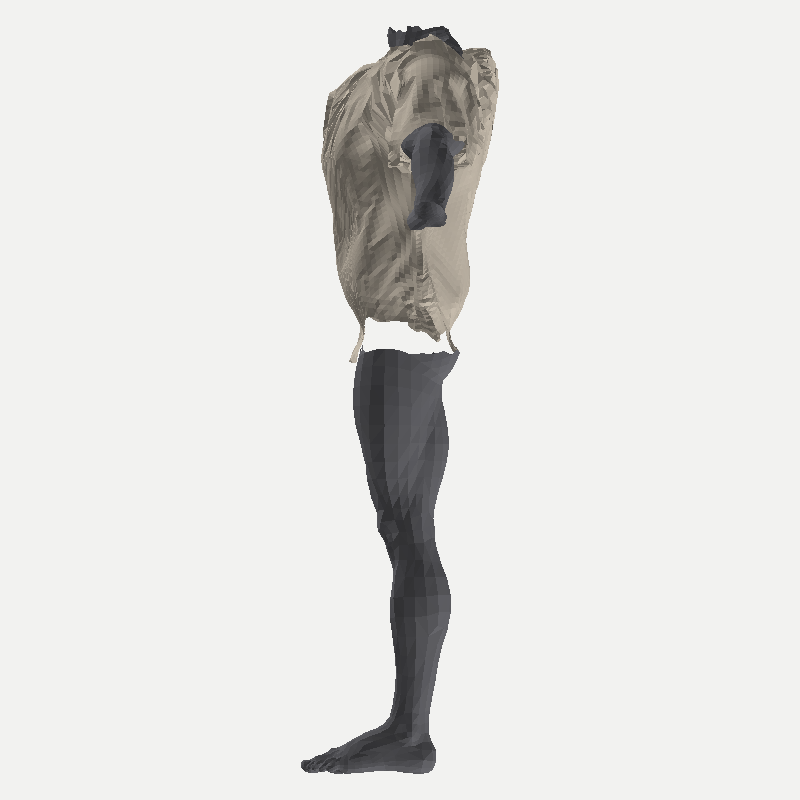
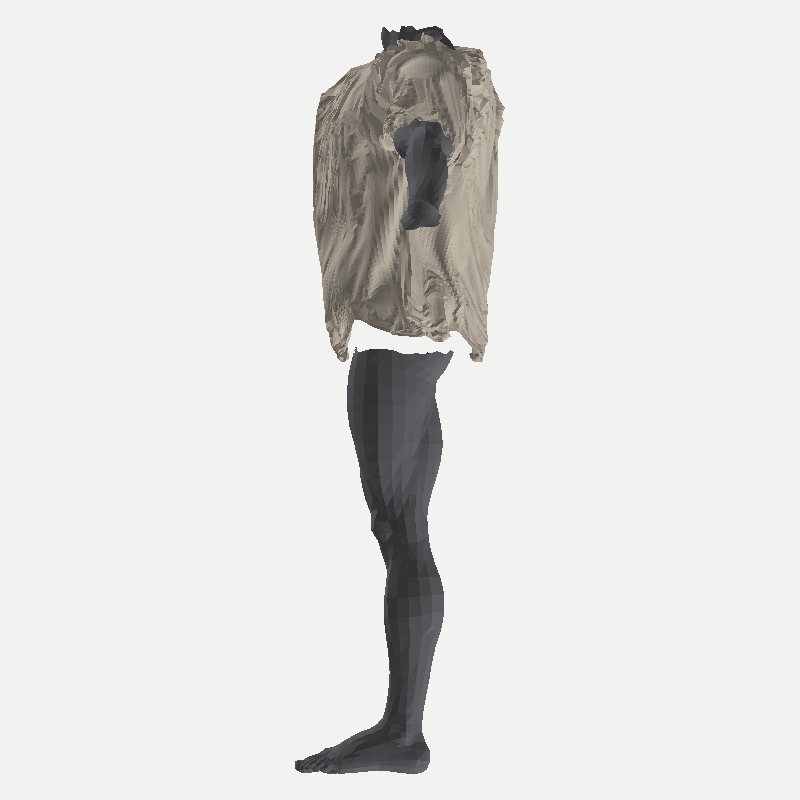
cloth sim: 0.8 cm mesh, every seam boundary vertex paired (both ways by arc fraction), weld before the push-out, three.js smooth-shaded previews (render.py); optional pattern rest shape (SIM_REST=1, off: pulls the yoke down while the torso cylinder is too narrow over the shoulders)
Tee: 33k triangles, seams closed (977/981 pairs), 0.4 % inside the body; still shoulder peaks under the pinned yoke and crumpling at the underarm.

Claude-Session: https://claude.ai/code/session_01T1FoqNFrnpWafKQH3B1Vx3

Changed region(s): [[0.375, 0.0312, 0.6562, 0.9688]]

diff --git a/tools/assets/cloth/sim.py b/tools/assets/cloth/sim.py
@@ -47,11 +47,11 @@ from place import sub, dot, cross, nrm, build_grid, bender, band_bender, Body, \
     edge_pts, sample_polyline, COLORS
 
 # ── tunables (metres, seconds; the reviewer's Marvelous/CLO recipe) ────────────────────────────
-STEP_SIM = float(os.environ.get('SIM_STEP', '1.2'))     # cm, warp grid of the high-poly cloth
+STEP_SIM = float(os.environ.get('SIM_STEP', '0.8'))     # cm, warp grid of the high-poly cloth
 MIN_CLEAR, PUSH_TO = 0.020, 0.032                       # push-out band, same as place.py
 FPS = 24
 FRAMES_SEW = int(os.environ.get('SIM_SEW', '55'))       # phase 1: seams close by sewing springs
-FRAMES_SETTLE = int(os.environ.get('SIM_SETTLE', '50')) # phase 2: gravity + self-collision settle
+FRAMES_SETTLE = int(os.environ.get('SIM_SETTLE', '60')) # phase 2: gravity + self-collision settle
 QUALITY = int(os.environ.get('SIM_QUALITY', '6'))       # CPU-bound default; SIM_QUALITY=8 on [gpu]
 FABRIC = dict(area_mass=0.15, tension=15.0, compression=15.0, shear=5.0, bending=0.5,
               self_dist=0.003, coll_thick=0.009, friction=5.0,
@@ -152,6 +152,34 @@ def smooth_push(V, F, skin, rounds=5, smooth=8, clear=0.012, push_to=0.018):
             V[i] = [V[i][k] + d[k] for k in range(3)]
         print(f'    отжим от кожи: {len(need)} вершин, поле на {len(D)}')
     return [tuple(p) for p in V]
+
+
+def pattern_rest(WV, faces_w, V2g, iters=300):
+    """a rest shape for the welded shell whose every edge has its PATTERN length (cm → m): start from the placed
+    shell and relax edge lengths toward the pattern (Jacobi position-based projection, numpy). The placement had to
+    compress / stretch the cloth to close the seams and clear the shoulders; with this as rest_shape_key the cloth
+    pulls back to its cut instead of keeping those dents as its natural shape."""
+    import numpy as np
+    L = {}
+    for wf, f0 in faces_w:
+        for k in range(3):
+            a, b = wf[k], wf[(k + 1) % 3]; a0, b0 = f0[k], f0[(k + 1) % 3]
+            key = (a, b) if a < b else (b, a)
+            l0 = math.hypot(V2g[a0][0] - V2g[b0][0], V2g[a0][1] - V2g[b0][1]) / 100
+            L.setdefault(key, []).append(l0)
+    E = np.array(list(L.keys()), dtype=np.int64); L0 = np.array([sum(v) / len(v) for v in L.values()])
+    X = np.array(WV, dtype=np.float64); cnt = np.bincount(E.ravel(), minlength=len(X)).astype(np.float64)[:, None]
+    l_init = np.linalg.norm(X[E[:, 1]] - X[E[:, 0]], axis=1)
+    for _ in range(iters):
+        d = X[E[:, 1]] - X[E[:, 0]]; l = np.linalg.norm(d, axis=1) + 1e-12
+        c = (0.5 * (l - L0) / l)[:, None] * d
+        acc = np.zeros_like(X); np.add.at(acc, E[:, 0], c); np.add.at(acc, E[:, 1], -c)
+        X += 0.6 * acc / np.maximum(cnt, 1)
+    l = np.linalg.norm(X[E[:, 1]] - X[E[:, 0]], axis=1)
+    r0, r1 = l_init / L0, l / L0
+    print(f'    покой по выкройке: рёбра раскладки / выкройки p5–p95 {np.percentile(r0, 5):.2f}–{np.percentile(r0, 95):.2f}'
+          f' → после {np.percentile(r1, 5):.2f}–{np.percentile(r1, 95):.2f}')
+    return [tuple(p) for p in X]
 
 
 def rollover(f, poly, sgn, z_mid, neck_w):
@@ -355,7 +383,7 @@ def edge_idx_list(part, pt, ename):
     """grid vertices along a pattern edge, ordered along it (same sampling as place.py)"""
     poly = edge_pts(part, ename)
     out, last = [], -1
-    for sp in sample_polyline([(x, y, 0) for x, y in poly], every=STEP_SIM * 1.2):
+    for sp in sample_polyline([(x, y, 0) for x, y in poly], every=STEP_SIM * (0.35 if SHELL else 1.2)):   # shell: EVERY boundary vertex, or the unpaired ones leave slits
         u, v = sp[0], sp[1]
         best, bi = 1e18, None
         for i, (vu, vv) in enumerate(pt['V2']):
@@ -382,7 +410,22 @@ def seam_pairs(pat, parts):
             a += [(spec[0], i) for i in side(spec)]
         for spec in s['b']:
             b += [(spec[0], i) for i in side(spec)]
-        seams.append((s['name'], list(zip(a, b))))
+        if SHELL:                                       # pair by arc fraction both ways: no boundary vertex left over
+            def frac(ch):
+                t = [0.0]
+                for (p1, i1), (p2, i2) in zip(ch, ch[1:]):
+                    q1, q2 = parts[p1]['V2'][i1], parts[p2]['V2'][i2]
+                    t.append(t[-1] + (math.hypot(q1[0] - q2[0], q1[1] - q2[1]) if p1 == p2 else 0.0))
+                return [x / (t[-1] or 1) for x in t]
+            ta, tb = frac(a), frac(b)
+            import bisect
+            def near(ts, x):
+                k = bisect.bisect_left(ts, x)
+                return min((j for j in (k - 1, k) if 0 <= j < len(ts)), key=lambda j: abs(ts[j] - x))
+            pr = {(i, near(tb, x)) for i, x in enumerate(ta)} | {(near(ta, x), j) for j, x in enumerate(tb)}
+            seams.append((s['name'], [(a[i], b[j]) for i, j in sorted(pr)]))
+        else:
+            seams.append((s['name'], list(zip(a, b))))
     return seams
 
 
@@ -520,7 +563,7 @@ def make_body_collider(sc, bodyP, bodyT):
 
 
 def run_phase(tag, V, F, E_sew, bodyP, bodyT, mass, frames, gravity, sewing, shrink,
-              self_coll, quality, blend=None, pin=None):
+              self_coll, quality, blend=None, pin=None, rest=None):
     """one cloth bake in a fresh scene. blend=(path, WV, WF, loop_uv) saves the final .blend."""
     bpy.ops.wm.read_factory_settings(use_empty=True)
     sc = bpy.context.scene
@@ -538,6 +581,11 @@ def run_phase(tag, V, F, E_sew, bodyP, bodyT, mass, frames, gravity, sewing, shr
     md = cob.modifiers.new('Cloth', 'CLOTH')
     st, cs = md.settings, md.collision_settings
     log, miss = cfg(st, cs, mass, sewing, shrink, self_coll, quality)
+    if rest is not None:                      # the cloth's own rest lengths / angles = the PATTERN, not the placement
+        cob.shape_key_add(name='Basis')
+        kr = cob.shape_key_add(name='rest')
+        for i, p in enumerate(rest): kr.data[i].co = p
+        st.rest_shape_key = kr
     if pin:                                   # {vertex: weight} — the yoke rides on the shoulders (a hanger, as in CLO)
         vg = cob.vertex_groups.new(name='pin')
         for i, w in pin.items(): vg.add([i], w, 'REPLACE')
@@ -614,7 +662,7 @@ def probe():
 
 
 # ───────────────────────── 6. weld AFTER sewing ─────────────────────────
-def weld(Vs, V0, F0, UV0, seamG):
+def weld(Vs, V0, F0, UV0, seamG, gap=WELD_GAP):
     """merge converged seam pairs into one vertex (a single manifold shell). Returns
     WV (positions), faces_w=[(welded_tri, orig_tri)], remap (orig→welded)."""
     par = list(range(len(V0)))
@@ -626,7 +674,7 @@ def weld(Vs, V0, F0, UV0, seamG):
     for _, pr in seamG:
         for a, b in pr:
             g = math.dist(Vs[a], Vs[b])
-            if g >= WELD_GAP:
+            if g >= gap:
                 nfar += 1; continue          # an open pair stays open: averaging points 10-40 cm apart made the huge shards
             nclose += 1
             ra, rb = find(a), find(b)
@@ -811,7 +859,7 @@ def main():
     if SHELL and garment == 'tee':        # the neckband strip is a separate ring that never sat on the neckline — later
         pat['parts'] = {k: v for k, v in pat['parts'].items() if k != 'band'}
         pat['seams'] = [sm for sm in pat['seams'] if all(sp[0] != 'band' for sp in sm['a'] + sm['b'])]
-    cached = load_rest(garment)
+    cached = None if SHELL else load_rest(garment)
     if cached:
         V0, F0, UV0, seamG, E = cached
     else:
@@ -819,12 +867,12 @@ def main():
         parts = build_parts(garment, pat, skin, bodyP, bodyT)
         seams = seam_pairs(pat, parts)
         V0, F0, UV0, seamG, E, off = join(parts, seams, sheet_uv(parts))
+        V2g = None
         if SHELL:
             part_of, V2g = [], []
             for name, pt in parts.items():
                 part_of += [name] * len(pt['verts3']); V2g += pt['V2']
-            V0 = zip_presew(V0, seamG, part_of, V2g)
-            V0 = smooth_push(V0, F0, skin)
+            V0 = [tuple(p) for p in zip_presew(V0, seamG, part_of, V2g)]   # cleared from the skin AFTER the weld
         save_rest(garment, V0, F0, UV0, seamG, E)
     if os.environ.get('SIM_REST_ONLY'):
         print('— только покой (SIM_REST_ONLY)'); return 0
@@ -846,9 +894,11 @@ def main():
     blendp = os.path.join(OUT, f'{garment}_high.blend')
     if SHELL:
         # ── the shell is already sewn: weld the (now coincident) pairs, then ONE settle with gravity ──
-        WV, faces_w, remap = weld(V0, V0, F0, UV0, seamG)
+        WV, faces_w, remap = weld(V0, V0, F0, UV0, seamG, gap=0.08)   # zipped: pairs are near; a group is averaged
         WF = [wf for wf, f0 in faces_w]
+        WV = smooth_push(WV, WF, Body(bodyP, bodyT))       # one shell: both sides of a seam move together
         luv = loop_uv(faces_w, UV0)
+        rest = pattern_rest(WV, faces_w, V2g) if V2g and os.environ.get('SIM_REST') == '1' else None   # off: the cylinder is too narrow over the shoulders, so the pattern rest pulled the yoke down
         t1 = 0.0
         pin = None
         if garment == 'tee':                  # pin the yoke: everything above the shoulder line minus PIN_DROP, ramped
@@ -857,7 +907,7 @@ def main():
             print(f'    пин кокетки: {len(pin)} вершин выше y={y0:.3f}')
         Vs_B, t2 = run_phase('усадка', WV, WF, [], bodyP, bodyT, mass, FRAMES_SETTLE,
                              gravity=(0, -9.81, 0), sewing=False, shrink=0.0,
-                             self_coll=True, quality=QUALITY, blend=(blendp, WV, WF, luv), pin=pin)
+                             self_coll=True, quality=QUALITY, blend=(blendp, WV, WF, luv), pin=pin, rest=rest)
         seam_bad = 0
     else:
         # ── PHASE 1: sew (gravity 0, no self-collision, slight shrink) ──

diff --git a/tools/assets/cloth/render.py b/tools/assets/cloth/render.py
@@ -1,0 +1,83 @@
+#!/usr/bin/env python3
+"""Smooth-shaded previews of a simulated garment, rendered by three.js in headless Chromium (like the game).
+
+    python3 tools/assets/cloth/render.py [tee|pants]
+
+Reads out/body.obj + out/<garment>_high.obj, writes preview/<garment>_r_front/side/back/close.png (1024 px).
+The pure-Python raster in place.py draws flat triangles — fine for checks, but it makes a 1 cm mesh read as broken
+glass; this one uses vertex normals and a key + fill light, so folds look like folds.
+"""
+import http.server, os, sys, threading, json, functools
+
+HERE = os.path.dirname(os.path.abspath(__file__))
+ROOT = os.path.abspath(os.path.join(HERE, '..', '..', '..'))
+OUT, PREVIEW = os.path.join(HERE, 'out'), os.path.join(HERE, 'preview')
+
+PAGE = """<!doctype html><html><body style="margin:0;background:#eeedea">
+<script type="importmap">{"imports":{"three":"/node_modules/three/build/three.module.js","three/addons/":"/node_modules/three/examples/jsm/"}}</script>
+<script type="module">
+import * as THREE from 'three';
+import { OBJLoader } from 'three/addons/loaders/OBJLoader.js';
+import { mergeVertices } from 'three/addons/utils/BufferGeometryUtils.js';
+const W = 1024, H = 1024;
+const R = new THREE.WebGLRenderer({ antialias: true, preserveDrawingBuffer: true }); R.setSize(W, H); document.body.appendChild(R.domElement);
+R.toneMapping = THREE.ACESFilmicToneMapping; R.outputColorSpace = THREE.SRGBColorSpace;
+const S = new THREE.Scene(); S.background = new THREE.Color(0xeeedea);
+S.add(new THREE.HemisphereLight(0xffffff, 0x887766, 1.1));
+const key = new THREE.DirectionalLight(0xffffff, 2.2); key.position.set(-1.2, 2.5, 2.2); S.add(key);
+const rim = new THREE.DirectionalLight(0xaabbff, 0.8); rim.position.set(2, 1.5, -2); S.add(rim);
+const L = new OBJLoader();
+function mesh(txt, mat) {
+  const g0 = L.parse(txt).children[0].geometry; g0.deleteAttribute('uv'); g0.deleteAttribute('normal');
+  const g = mergeVertices(g0, 1e-5); g.computeVertexNormals();
+  const m = new THREE.Mesh(g, mat); S.add(m); return m;
+}
+window.go = async (body, cloth) => {
+  mesh(body, new THREE.MeshStandardMaterial({ color: 0x6d625a, roughness: 0.75 }));
+  const c = mesh(cloth, new THREE.MeshStandardMaterial({ color: 0xd9d2c3, roughness: 0.92, side: THREE.DoubleSide }));
+  c.geometry.computeBoundingBox(); const bb = c.geometry.boundingBox, ctr = bb.getCenter(new THREE.Vector3());
+  const cam = new THREE.PerspectiveCamera(24, 1, 0.05, 20);
+  const views = { front: [0, 0, 1], side: [1, 0, 0.12], back: [0, 0, -1] }, shots = {};
+  const size = bb.getSize(new THREE.Vector3()), dist = Math.max(size.x, size.y) * 2.6;
+  for (const [k, d] of Object.entries(views)) {
+    cam.position.set(ctr.x + d[0] * dist, ctr.y + 0.05, ctr.z + d[2] * dist); cam.lookAt(ctr); R.render(S, cam);
+    shots[k] = R.domElement.toDataURL('image/png');
+  }
+  cam.position.set(ctr.x + 0.55, bb.max.y + 0.05, ctr.z + 0.75); cam.lookAt(ctr.x + 0.17, bb.max.y - 0.12, ctr.z); R.render(S, cam);
+  shots.close = R.domElement.toDataURL('image/png');
+  return shots;
+};
+window.ready = true;
+</script></body></html>"""
+
+
+def main():
+    garment = sys.argv[1] if len(sys.argv) > 1 else 'tee'
+    body = open(os.path.join(OUT, 'body.obj')).read()
+    cloth = open(os.path.join(OUT, f'{garment}_high.obj')).read()
+    page = os.path.join(ROOT, '_cloth_render.html'); open(page, 'w').write(PAGE)
+    H = functools.partial(http.server.SimpleHTTPRequestHandler, directory=ROOT)
+    H.log_message = lambda *a: None
+    srv = http.server.ThreadingHTTPServer(('127.0.0.1', 0), H); port = srv.server_address[1]
+    threading.Thread(target=srv.serve_forever, daemon=True).start()
+    from playwright.sync_api import sync_playwright
+    import base64
+    try:
+        with sync_playwright() as pw:
+            exe = '/usr/bin/google-chrome' if os.path.exists('/usr/bin/google-chrome') else None
+            b = pw.chromium.launch(executable_path=exe, args=['--use-gl=swiftshader', '--enable-unsafe-swiftshader', '--ignore-gpu-blocklist'])
+            pg = b.new_page(viewport={'width': 1024, 'height': 1024})
+            pg.on('pageerror', lambda e: print('PAGEERROR', e))
+            pg.goto(f'http://127.0.0.1:{port}/_cloth_render.html'); pg.wait_for_function('window.ready === true', timeout=60000)
+            shots = pg.evaluate('([a, b]) => window.go(a, b)', [body, cloth])
+            os.makedirs(PREVIEW, exist_ok=True)
+            for k, url in shots.items():
+                open(os.path.join(PREVIEW, f'{garment}_r_{k}.png'), 'wb').write(base64.b64decode(url.split(',', 1)[1]))
+            b.close()
+        print(f'  превью → preview/{garment}_r_front/side/back/close.png')
+    finally:
+        srv.shutdown(); os.remove(page)
+
+
+if __name__ == '__main__':
+    main()
